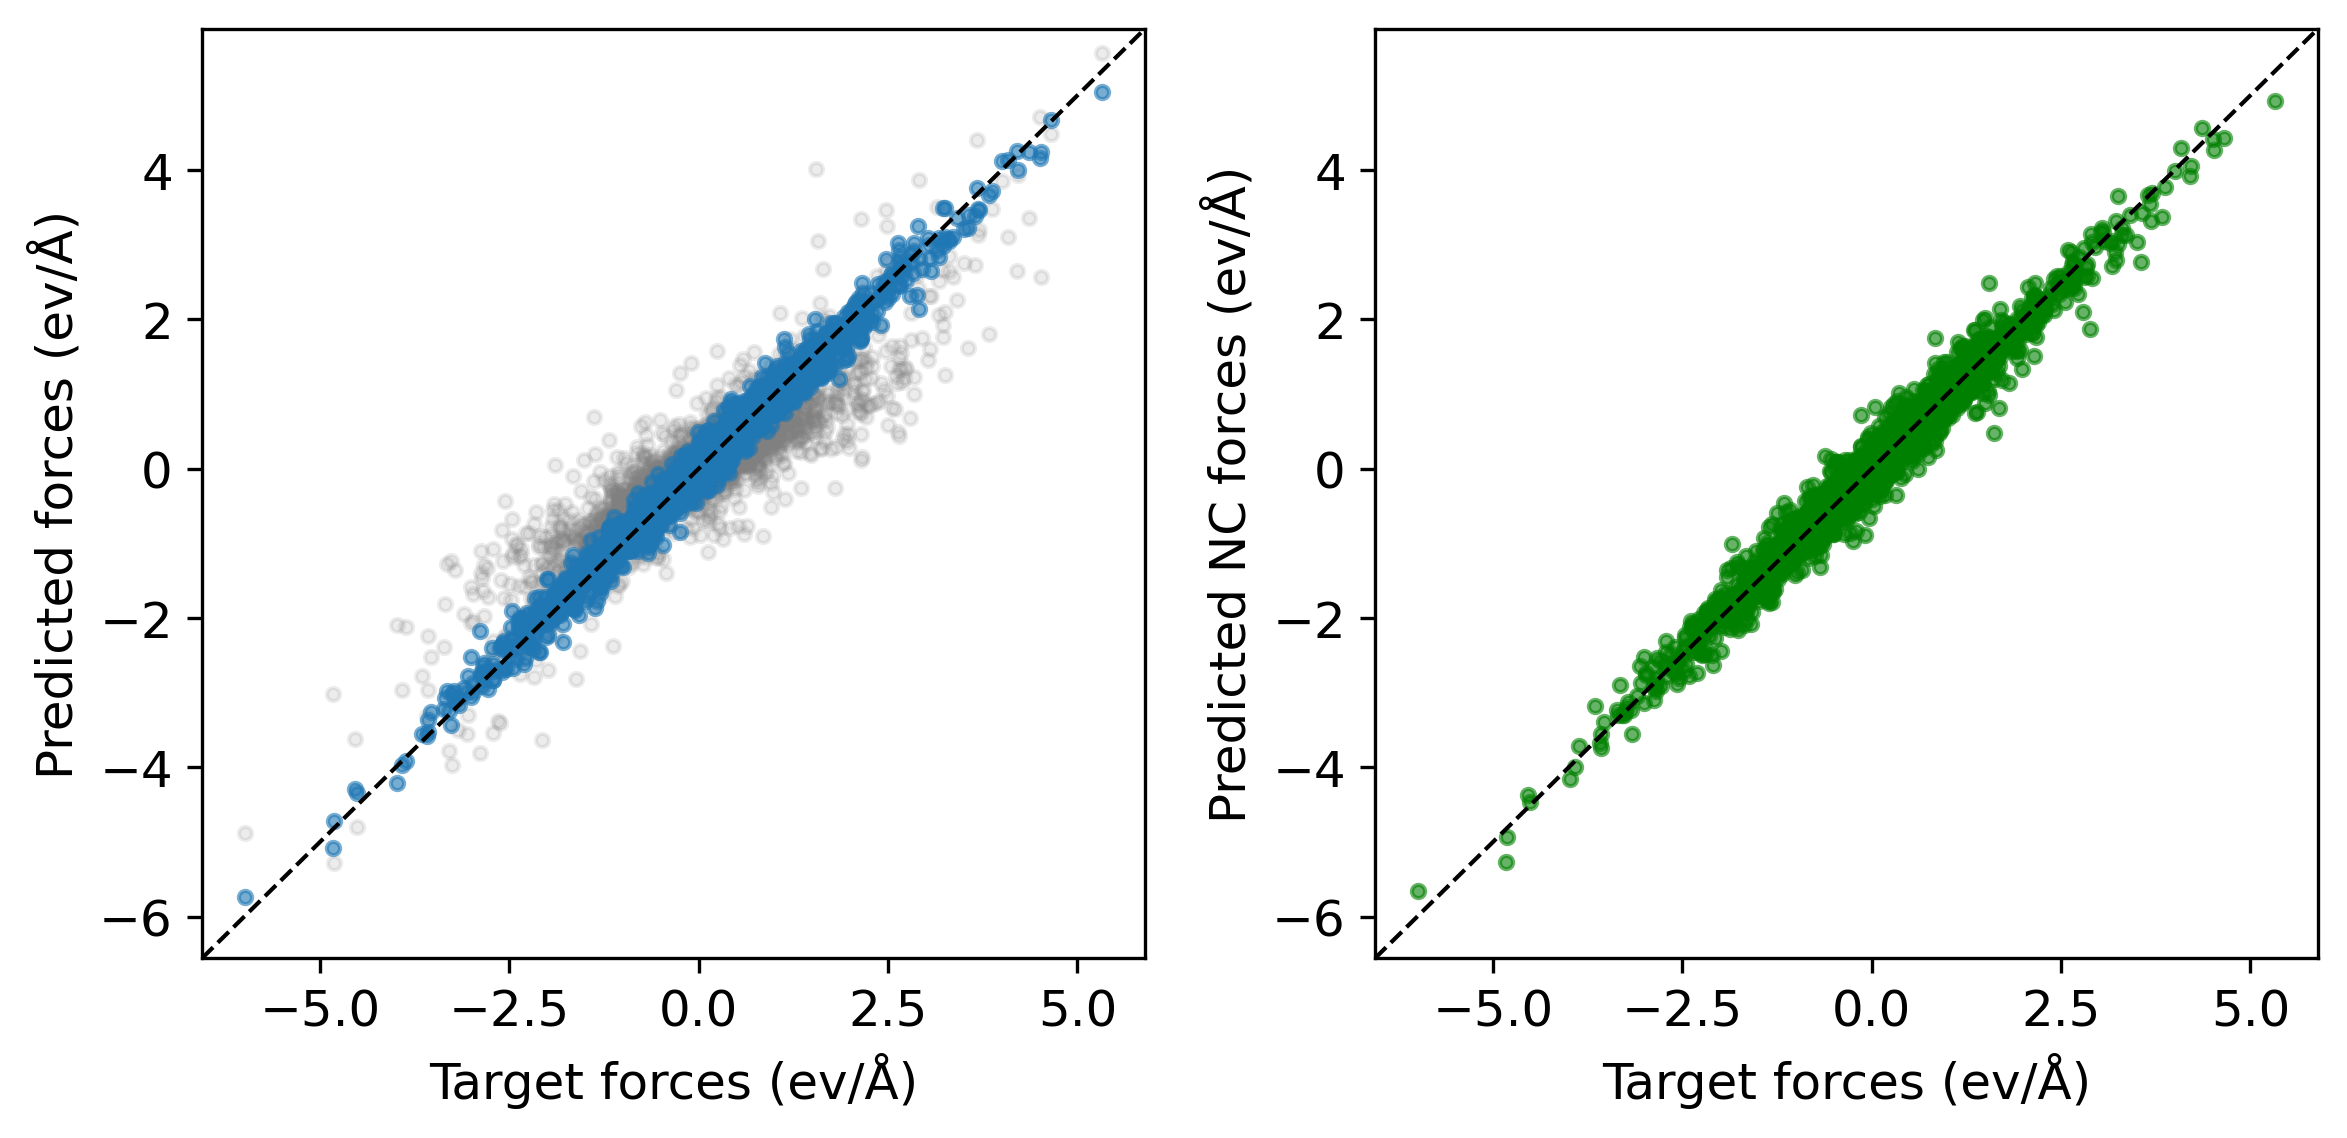
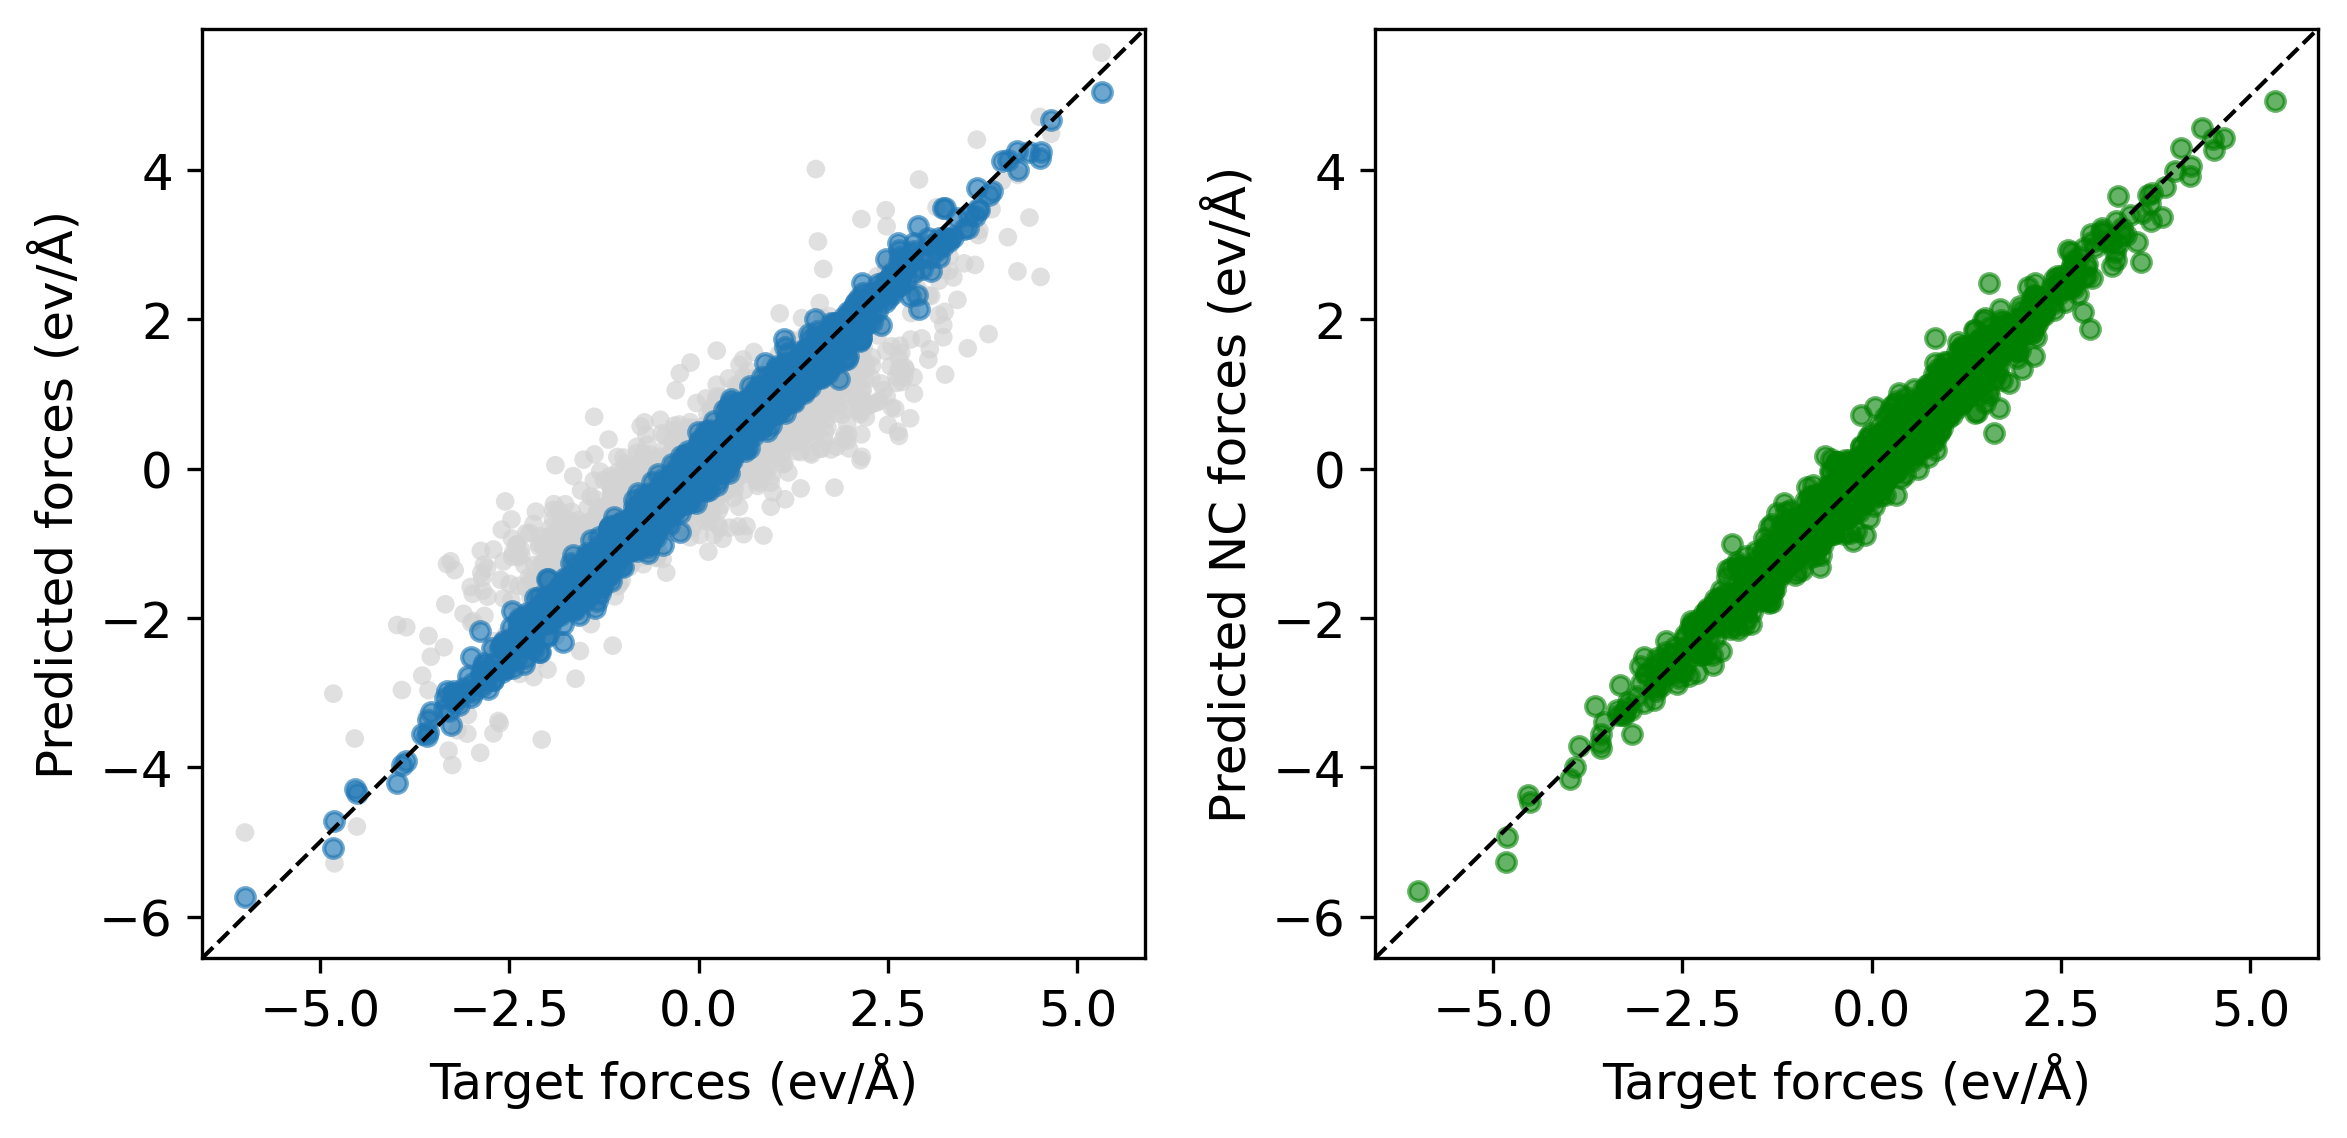
Small text impovements

diff --git a/examples/pet-finetuning/pet-ft.py b/examples/pet-finetuning/pet-ft.py
@@ -8,16 +8,18 @@ Fine-tuning the PET-MAD universal potential
           Sofiia Chorna `@sofiia-chorna <https://github.com/sofiia-chorna>`_
 
 This example demonstrates fine-tuning the PET-MAD model with `metatrain
-<https://github.com/metatensor/metatrain>`_ on a small dataset of ethanol structures.
+<https://github.com/metatensor/metatrain>`_ and two-stage training strategy from
+scratch.
 
 We cover two examples: 1) simple fine-tuning the pretrained PET-MAD model to adapt it to
 specialized task by retraining it on a domain-specific dataset, and 2) two-stage
 training strategy, first on non-conservative forces for efficiency, followed by
 fine-tuning on conservative forces to ensure physical consistency.
 
-PET-MAD is a universal machine-learning forcefield trained on `the MAD dataset
-<https://arxiv.org/abs/2506.19674>`_ that aims to incorporate a very high degree of
-structural diversity. It uses `the Point-Edge Transformer (PET)
+`PET-MAD <https://arxiv.org/abs/2503.14118>`_ is a universal machine-learning forcefield
+trained on `the MAD dataset <https://arxiv.org/abs/2506.19674>`_ that aims to
+incorporate a very high degree of structural diversity. The model itself is `the
+Point-Edge Transformer (PET)
 <https://proceedings.neurips.cc/paper_files/paper/2023/file/fb4a7e3522363907b26a86cc5be627ac-Paper-Conference.pdf>`_,
 an unconstrained architecture that achieves symmetry compliance through data
 augmentation during training.
@@ -72,9 +74,13 @@ urlretrieve(url, checkpoint_path)
 #
 # DFT-calculated energies often contain systematic shifts due to the choice of
 # functional, basis set, or pseudopotentials. If left uncorrected, such shifts can
-# mislead the fine-tuning process. We apply a linear correction based on atomic
-# compositions to align our fine-tuning dataset with PET-MAD energy reference. First, we
-# define a helper function to load reference energies from PET-MAD.
+# mislead the fine-tuning process.
+#
+# On this example we use the sampled subset of ethanol structures from `rMD17 dataset
+# <https://doi.org/10.48550/arXiv.2007.09593>`_ with PBE/def2-SVP level of theory which
+# is different from the MAD where PBEsol is used. We apply a linear correction based on
+# atomic compositions to align our fine-tuning dataset with PET-MAD energy reference.
+# First, we define a helper function to load reference energies from PET-MAD.
 
 
 def load_reference_energies(checkpoint_path):
@@ -95,8 +101,8 @@ def load_reference_energies(checkpoint_path):
 
 # %%
 #
-# The dataset is composed of 100 structures of ethanol. We fit a linear model based on
-# atomic compositions to apply energy correction.
+# For demonstration, the dataset is composed only of 100 structures of ethanol. We fit a
+# linear model based on atomic compositions to apply energy correction.
 
 dataset = ase.io.read("data/ethanol.xyz", index=":", format="extxyz")
 
@@ -237,8 +243,8 @@ display_loss(csv_file)
 
 # %%
 #
-# The result of running the fine-tuning for 1000 epoches in visualised with
-# ``chemiscope`` below:
+# The result of running the fine-tuning for 1000 epoches for 1000 structures in
+# visualised with ``chemiscope`` below:
 import chemiscope  # noqa: E402
 
 
@@ -246,9 +252,6 @@ chemiscope.show_input("full_finetune_example.chemiscope.json")
 
 # %%
 #
-# The fine-tuning learning curves for 1000 epoches displayed on the figure below. For
-# comparison, we also train a model from scratch on the same dataset:
-
 # The figure below shows the training and validation losses over 1000 epochs of
 # fine-tuning. For comparison, we also train the model from scratch on the same dataset.
 # Expectedly, the pretrained model achieves better accuracy.
@@ -261,11 +264,14 @@ chemiscope.show_input("full_finetune_example.chemiscope.json")
 # Two stage training strategy
 # ---------------------------
 #
-# This approach accelerates training by first using non-conservative forces, which
-# avoids costly backpropagation, then fine-tuning on conservative forces to ensure
-# physical consistency. Non-conservative forces can lead to pathological behavior (see
-# `preprint <https://arxiv.org/abs/2412.11569>`_), but this strategy mitigates such
-# issues while maintaining efficiency.
+# As discussed in <this paper https://arxiv.org/abs/2412.11569>`_, while conservative
+# MLIPs are generally better suited for physically accurate simulations, hybrid models
+# that support direct non-conservative force predictions can accelerate both training
+# and inference. We demonstrate this practical compromise through a two-stage approach:
+# first train a model to predict non-conservative forces directly (which avoids the cost
+# of backpropagation) and then fine-tuning its energy head to produce conservative
+# forces. Although non-conservative forces can lead to unphysical behavior, this
+# two-step strategy balances efficiency and physical reliability.
 #
 # Non-conservative force training
 # ~~~~~~~~~~~~~~~~~~~~~~~~~~~~~~~
@@ -357,7 +363,8 @@ subprocess.run(["mtt", "eval", "model.pt", "eval_ex2.yaml"], check=True)
 # %%
 #
 # After fine-tuning for 50 epochs, the updated parity plots show improved force
-# predictions (left) with conservative forces.
+# predictions (left) with conservative forces. The grayscale points in the background
+# correspond to the predicted forces from the previous step.
 #
 # .. image:: c_ft_res.png
 #    :align: center
